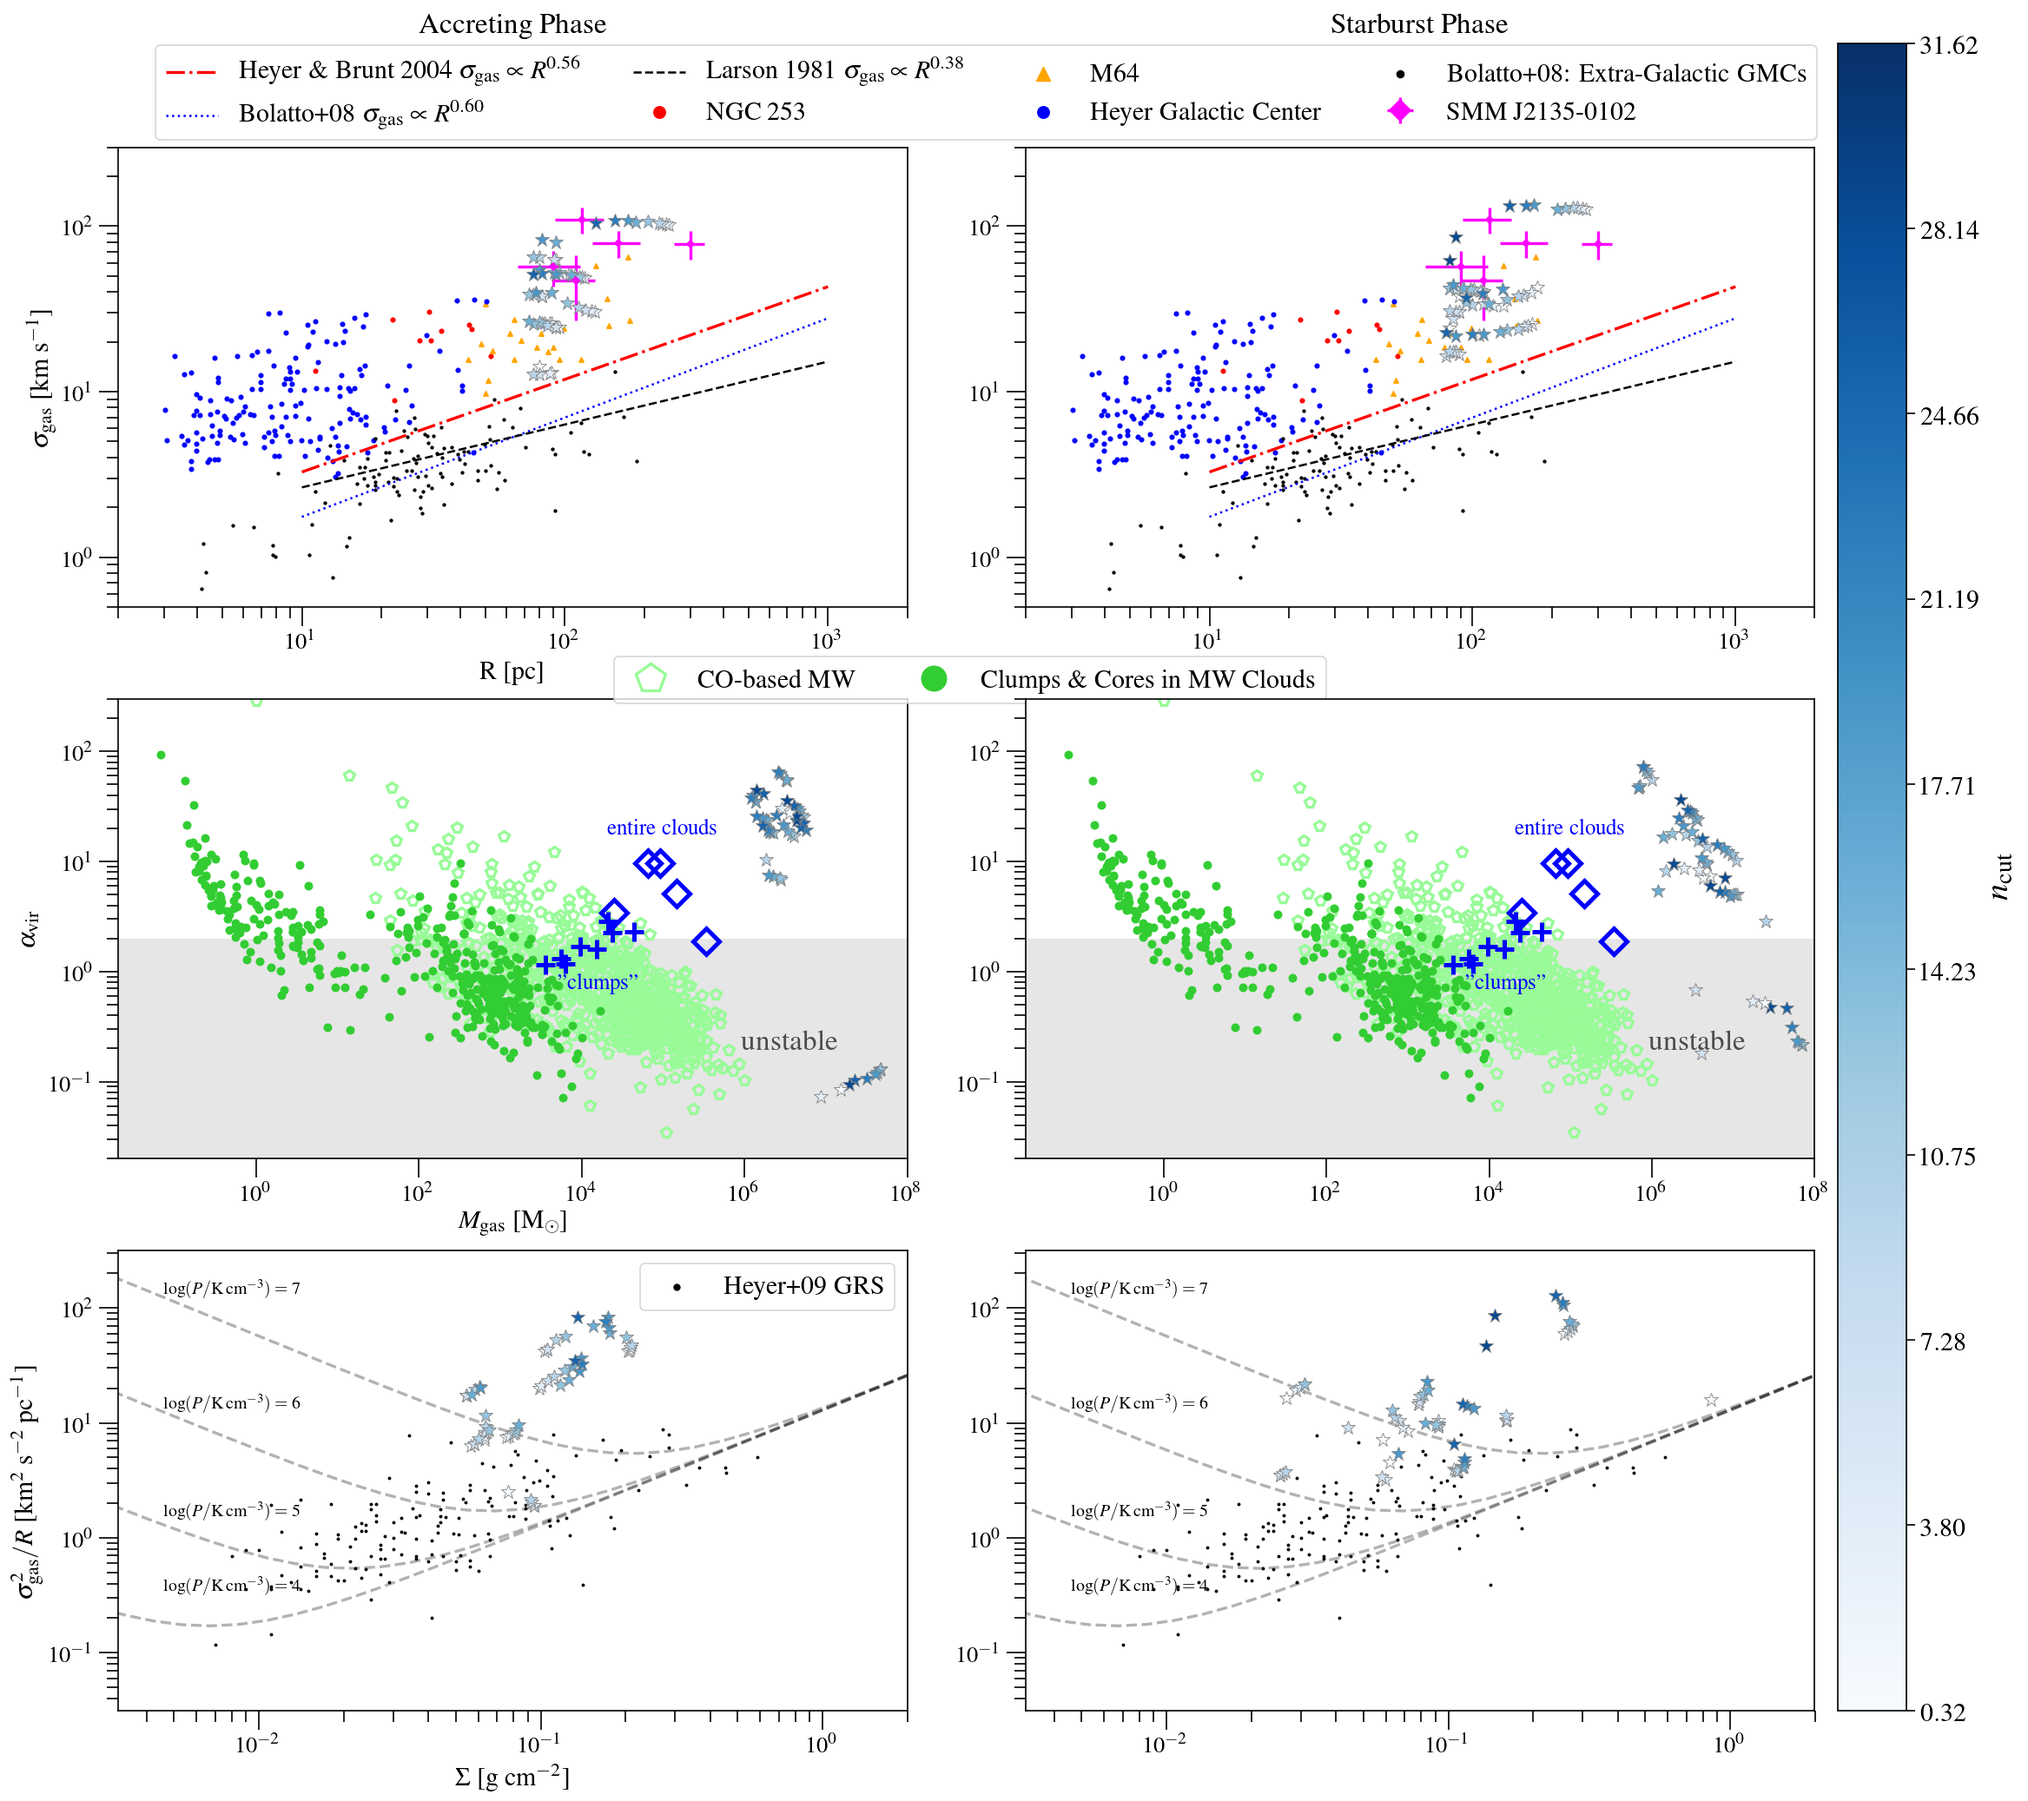
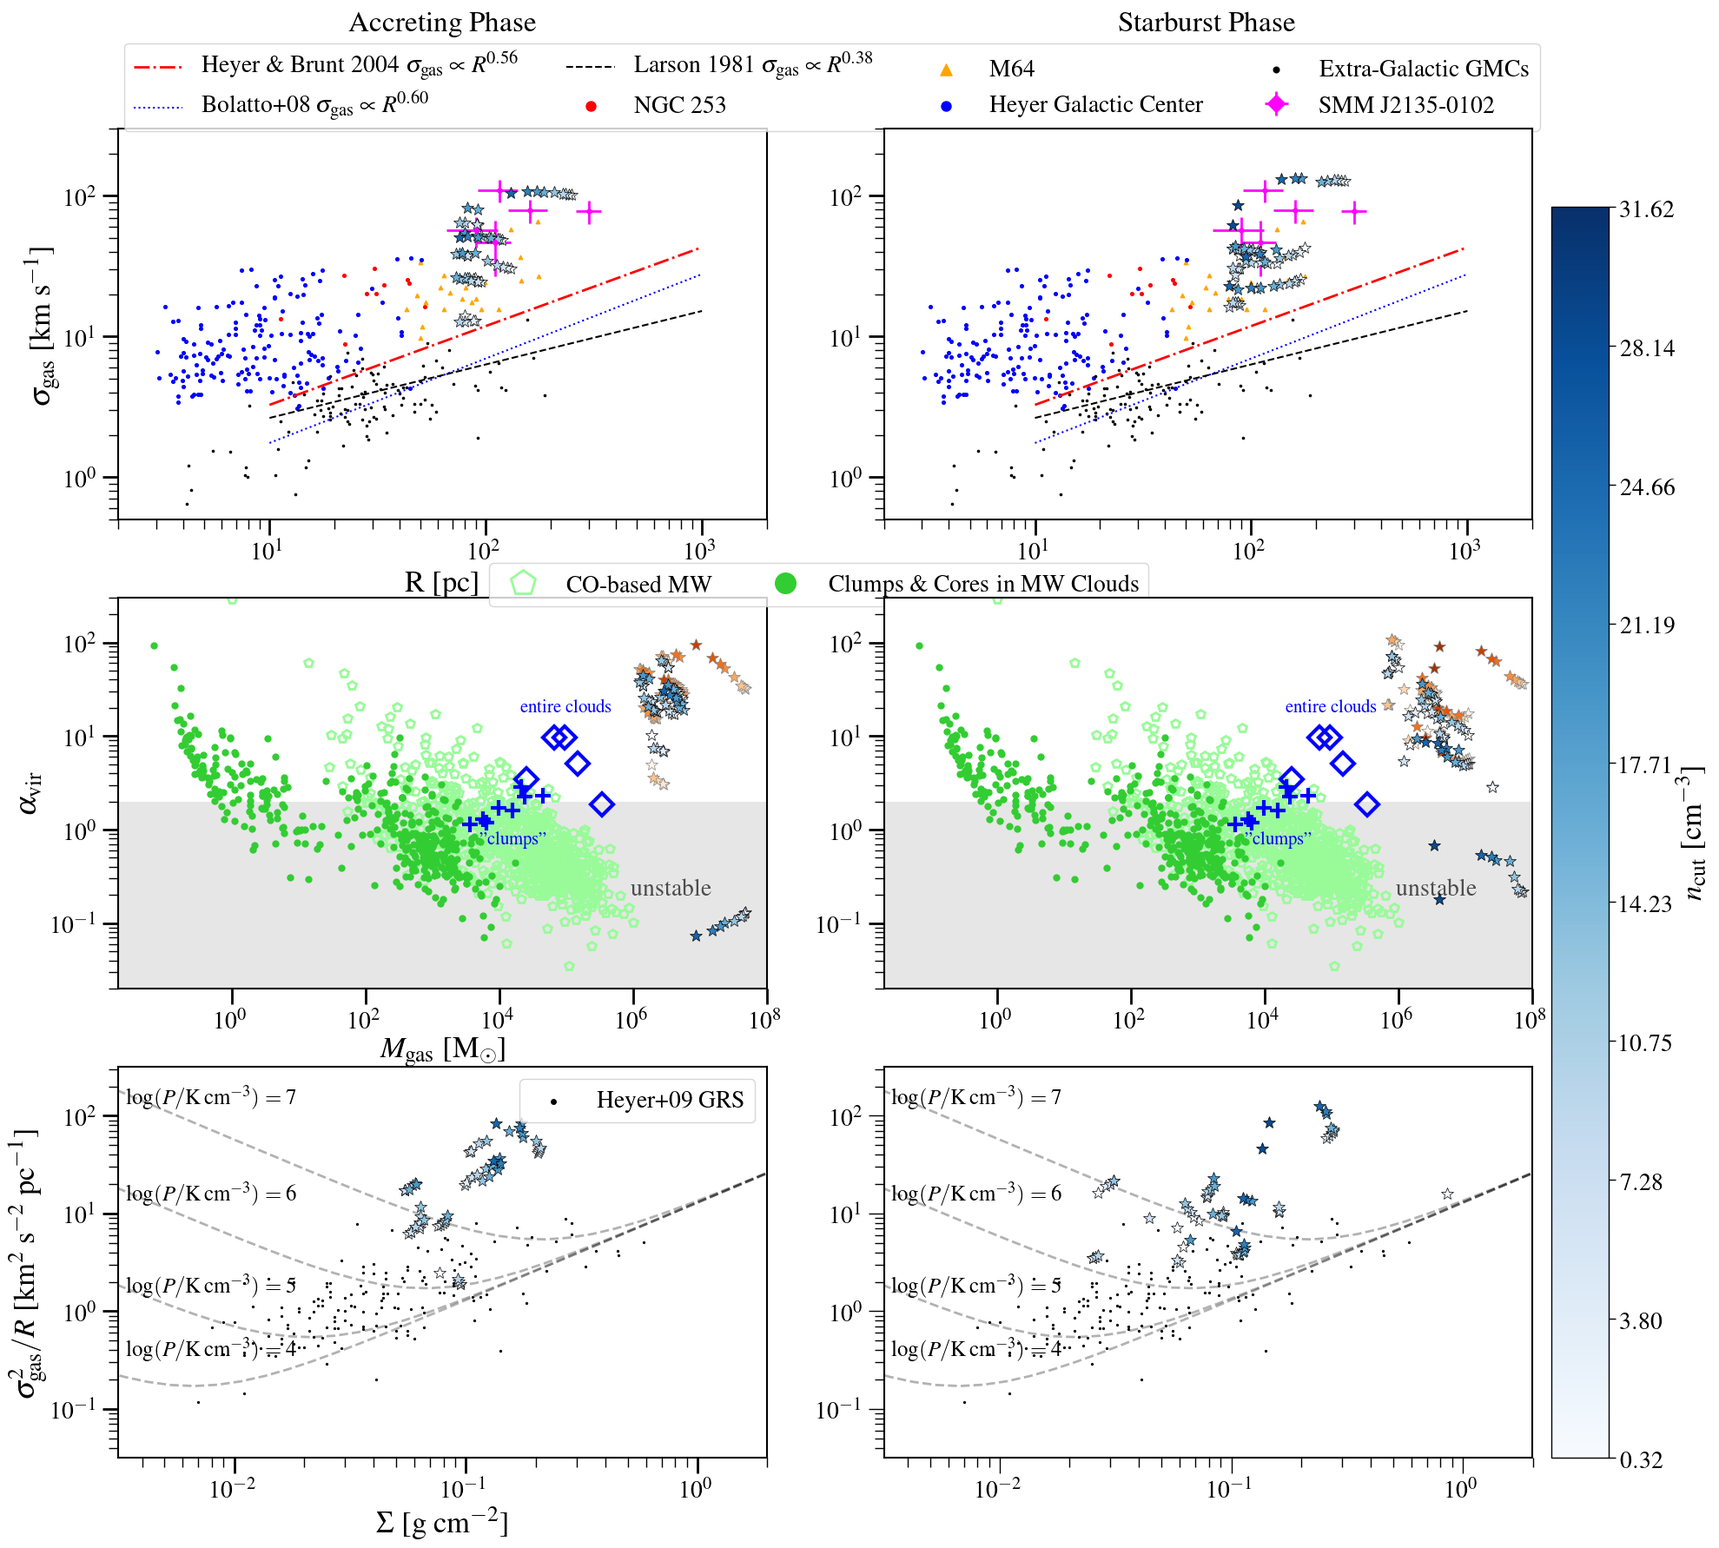
3by2 fig bigger fonts; also plot gas-only alphaVir

diff --git a/WRITEUP/ms.tex b/WRITEUP/ms.tex
@@ -347,7 +347,7 @@ Existing studies find a good correspondence in the dynamical properties extracte
 \caption{
 Examples of MCCs (white contours) identified by the clump finder in
 \flower during its accreting phase (\Fig{SFH}a; left two columns), where \flower display a highly disturbed gas morphology, and 
-its late quiescent phase (right two columns), where \flower shows a rotating disk configuration.
+its quiescent phase (right two columns), where \flower shows a rotating disk configuration.
 Panels in the second and fourth columns show the molecular gas distribution projected along different viewing angles. 
 Colorbar on the right shows the mean H$_2$ number density, weighted by gas mass. 
 Different rows show the results obtained by applying different H$_2$ number density cuts $(n_{\rm cut})$ as annotated by the label in the bottom left corners. 
@@ -476,7 +476,7 @@ The accreting phase of \flower displays a more disturbed morphology compared to 
 %
 The dashed black lines show a one-to-one mapping between the axes to facilitate comparison. 
 %
-Velocity dispersion from turbulent motions dominates over bulk motions for MCCs in the accreting phase. On the other hand, 
+Velocity dispersion from turbulent motions dominates over bulk motions for MCCs in the accreting phase, whereas 
 $\sigma_{\rm bulk}$ is comparable to $\sigma_{\rm NT}$ for some MCCs in the quiescent disk-like phase.
 \label{fig:vv}}
 \vspace{0.5em}
@@ -496,7 +496,9 @@ Linewidth-size relation (top), $\alpha_{\rm vir}$-mass relation
 MCCs (star symbols) identified in the two most extreme evolutionary
 stages of \flower\ --- accreting phase (left) and starburst phase
 (right). Star symbols are color-coded by the density thresholds
-$n_{\rm cut}$, as illustrated by the colorbar.
+$n_{\rm cut}$, as illustrated by the colorbar on the right.
+We also plot gas-only $\alpha_{\rm vir}$ (orange star symbols), which is of the same order of magnitude as $\alpha_{\rm vir, tot}$ for most MCCs,
+since they are gas-dominated (see \Fig{stellarRatio16}).
 Literature data in the linewidth-size plots are from \citet{Heyer04a, Rosolowsky05a, Bolatto08a,
 % black dot = extragalactic GMCs in quiescent environments
 Leroy15a}, and \citet{Swinbank11a}, and the empirical scaling relations are
@@ -508,42 +510,6 @@ The gray dotted lines shown in the bottom panels correspond to the various annot
 the gas to be in equilibrium, see Equation~\ref{eqn:v0}.
 \label{fig:larsons_single}}
 \end{figure*}
-
-%
-%\begin{figure*}[htbp]
-%\centering
-%\includegraphics[trim=0 0 0 0, clip, width=0.8\textwidth]{\figpath/lf16_cloud-mass_size-pc.png}
-%\caption{
-%Size-mass relation of MCCs in the accreting phase of \flower (star symbols) compared to observational data of molecular clouds in the Milky Way associated with massive \SF (magenta circles, green stars, blue dots, and black triangles) and empirical relations established based on \obs of the Milky Way.
-%Star symbols are color-coded by
-%increasing $n_{\rm cut}$, same as the colorbar shown in \Fig{larsons_single}.
-%Red line shows the mass-size relation found for regions in the Milky Way with massive \SF \citep{Kauffmann10b}.
-%Literature data are compiled from \citet{Beuther02a, Mueller02a, Hill05a, Motte07a}.
-%Colored lines show the loci expected for different visual extinctions ($A_V$, see \Eq{constantcolumndensity}), corresponding to lines of
-%constant surface density (i.e., Larson's third relation). This representation is motivated by observational studies (see \Sec{singless} and e.g., \citealt{Lombardi10a}).
-%%mm [redundant] The star symbols are color-coded by $n_{\rm cut}$,
-%%same as \Fig{larsons_single}.
-%%Extrapolating the masses and sizes of MCCs of \flower along the \citet{Kauffmann10b}
-%%relation down to 1\,pc are comparable  to those  of  the  cores  found  in regions  of high-mass star formation, suggesting that the identified MCCs are capable of high-mass \SF.
-%For interpretation of this figure, see discussion in \Sec{MR}.
-%\label{fig:MR}}
-%\end{figure*}
-
-%\begin{figure*}[htbp]
-%\centering
-%\includegraphics[trim=0 0 0 0, clip, width=\textwidth]{\figpath/alpha_vir_ss16-ss23.png}
-%\caption{Virial parameter as a function of MCC mass for different evolutionary stages of \flower, beginning from the accreting phase (top left).
-%Evolutionary stages are shown chronologically from panels {\it (a)} through {\it (f)}.
-%Definition of symbols are same as in \Fig{larsons_single}.
-%Blue star symbols show gas-only $\alpha_{\rm vir}$ and blue circulate dots show total $\alpha_{\rm vir, tot}$.
-%The virial parameter vary over the $\sim$300\,Myr shown here as \flower\ evolves. Most notably, the biggest MCCs transition from
-%the unstable region as \flower\ accretes materials to being stable (e.g., panel {\it (c)}), a similar pattern is seen in the pre-starburst through
-%post-starburst phase.
-%The variation is clearly seen between the pre-starburst through post-starburst phase.
-%Excluding the biggest MCCs (see \Fig{stellarRatio16} and \Sec{singless}),
-%MCCs in the pre-starburst phase have a lower $\alpha_{\rm vir}$ compared to the starburst phase. \AP{I still think that this figure might be a bit redundant}
-%\label{fig:alphaEvol}}
-%\end{figure*}
 
 
 \begin{figure*}
@@ -557,7 +523,8 @@ disk and arms of \flower, and are broken down into smaller MCCs at higher densit
 \end{figure*}
 
 
-Here, we focus on the two most extreme evolutionary stages of \flower\ --- the accreting and starburst phases (see \Sec{sfh}). Scaling relations for the MCCs are shown in \Fig{larsons_single} for the accreting (left panels) and starburst phase (right panels), respectively.
+Here, we focus on the MCC properties in the two most extreme evolutionary stages of \flower\ --- the accreting and starburst phases (see \Sec{sfh}). 
+These properties are plotted in \Fig{larsons_single} together with observational results of nearby and $z$\,$\simeq$2 molecular structures for comparison.
 
 During the accreting phase, MCCs in \flower\ are characterized by large velocity dispersions ($\sigma \simeq 100 {\rm km s}^{-1}$) and sizes ($R\simeq 100$\,pc). These values are comparable to those found in starburst galaxies, such as the nearby gas-rich galaxy M64 and the $z$\ssim2 starbursting disk galaxy SMM\,J2135-0102 \citep{Rosolowsky05a, Swinbank11a}, but are higher than those found in the Milky Way and extragalactic GMCs by an order of magnitude \citep{Heyer04a, Bolatto08a}.
 
